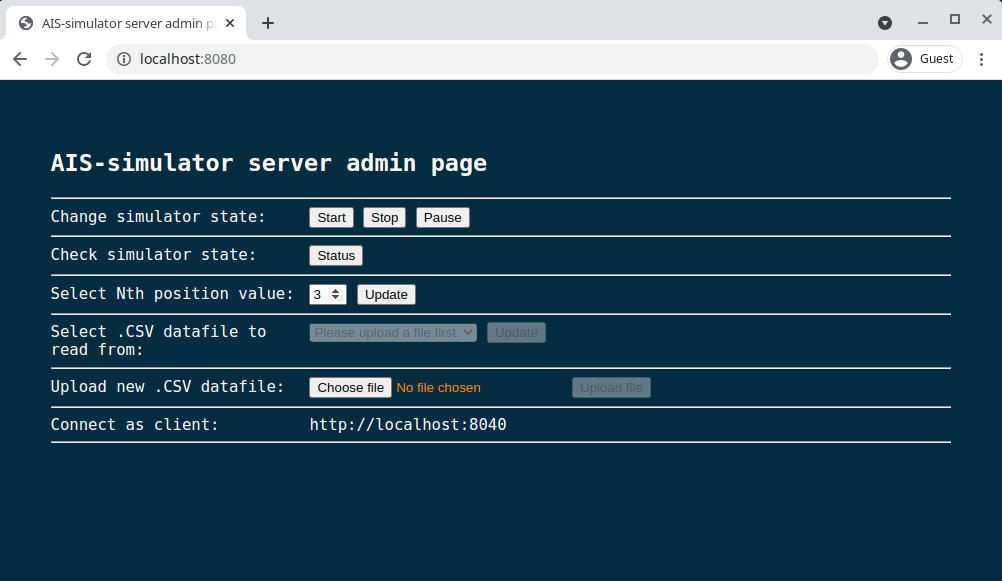
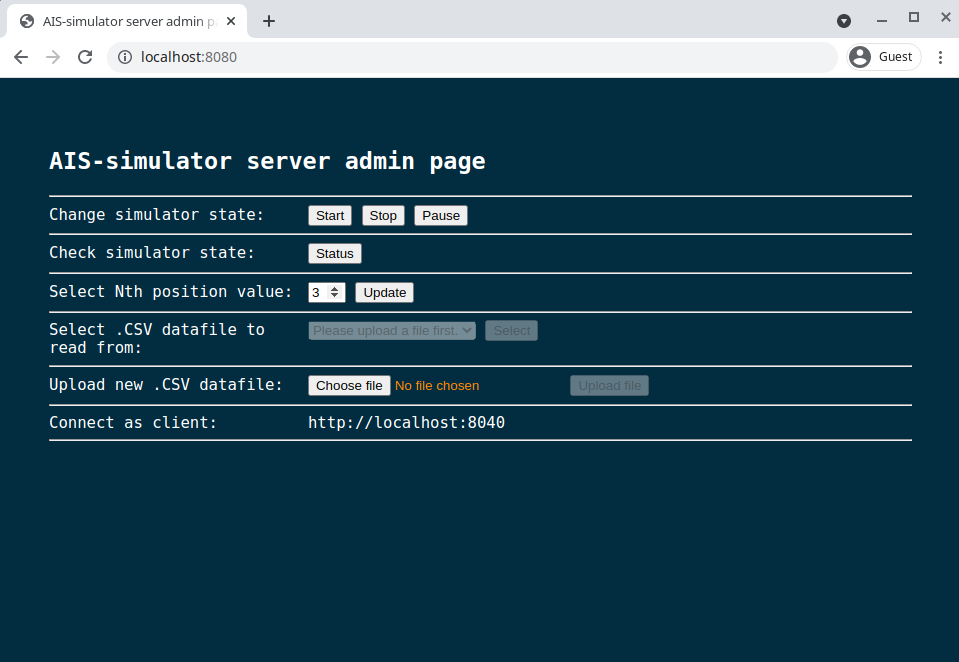
Update screenshot in README file.

Changed region(s): [[0.0302, 0.2169, 0.9677, 0.7745], [0.0, 0.0, 1.0, 0.1549]]

diff --git a/src/main/webapp/index.html b/src/main/webapp/index.html
@@ -47,7 +47,7 @@
     <label for="setfiledropdown">Select .CSV datafile to read from: </label>
 </div>
 <select id="setfiledropdown"></select>
-<input id="update" type="button" value="Update" onClick="setFilename()">
+<input id="update" type="button" value="Select" onClick="setFilename()">
 <div id="filenameMessage"></div>
 
 
